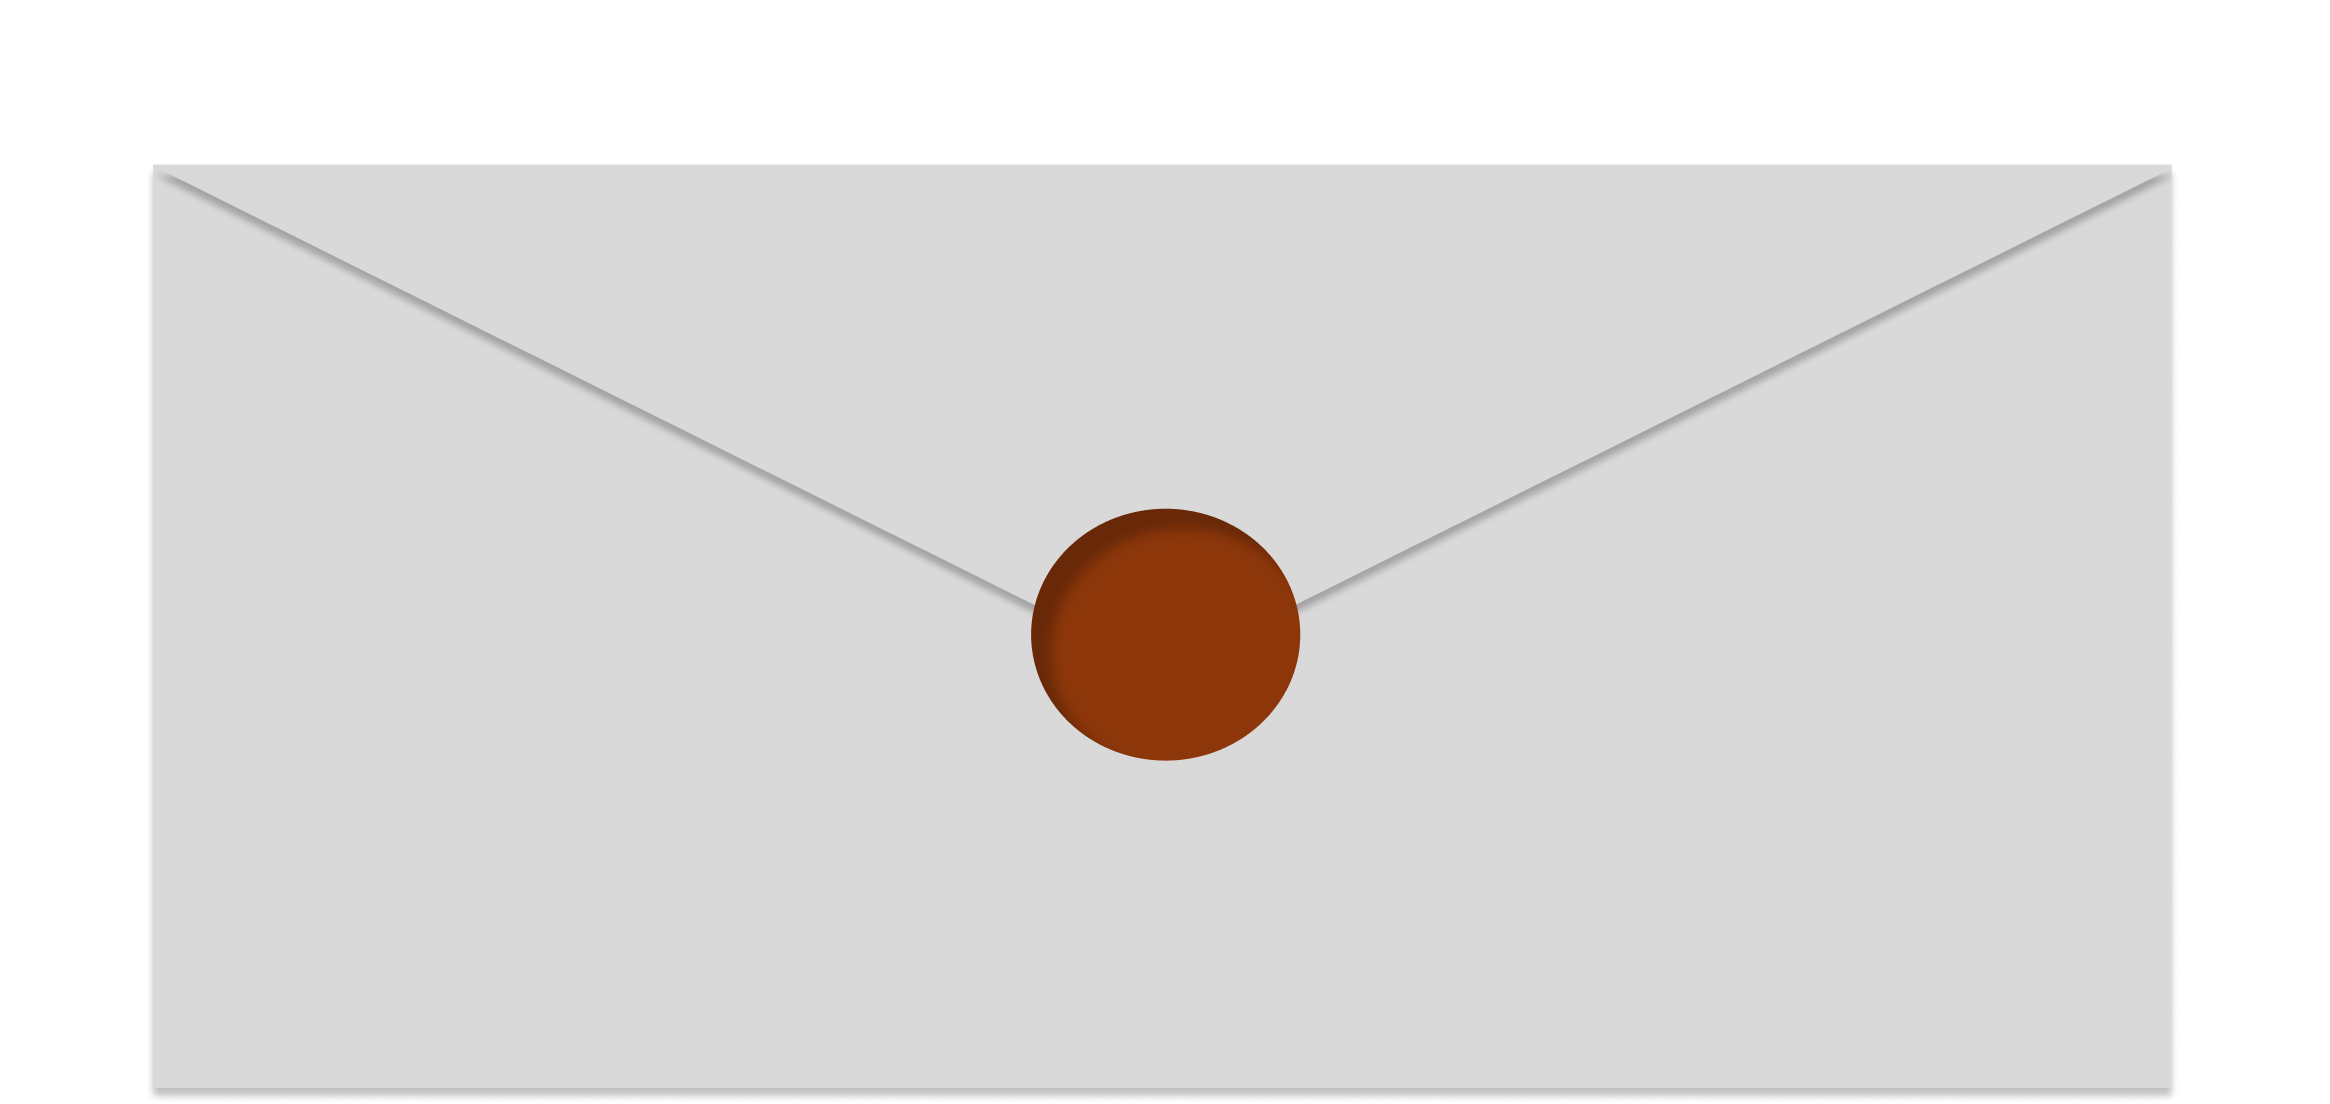
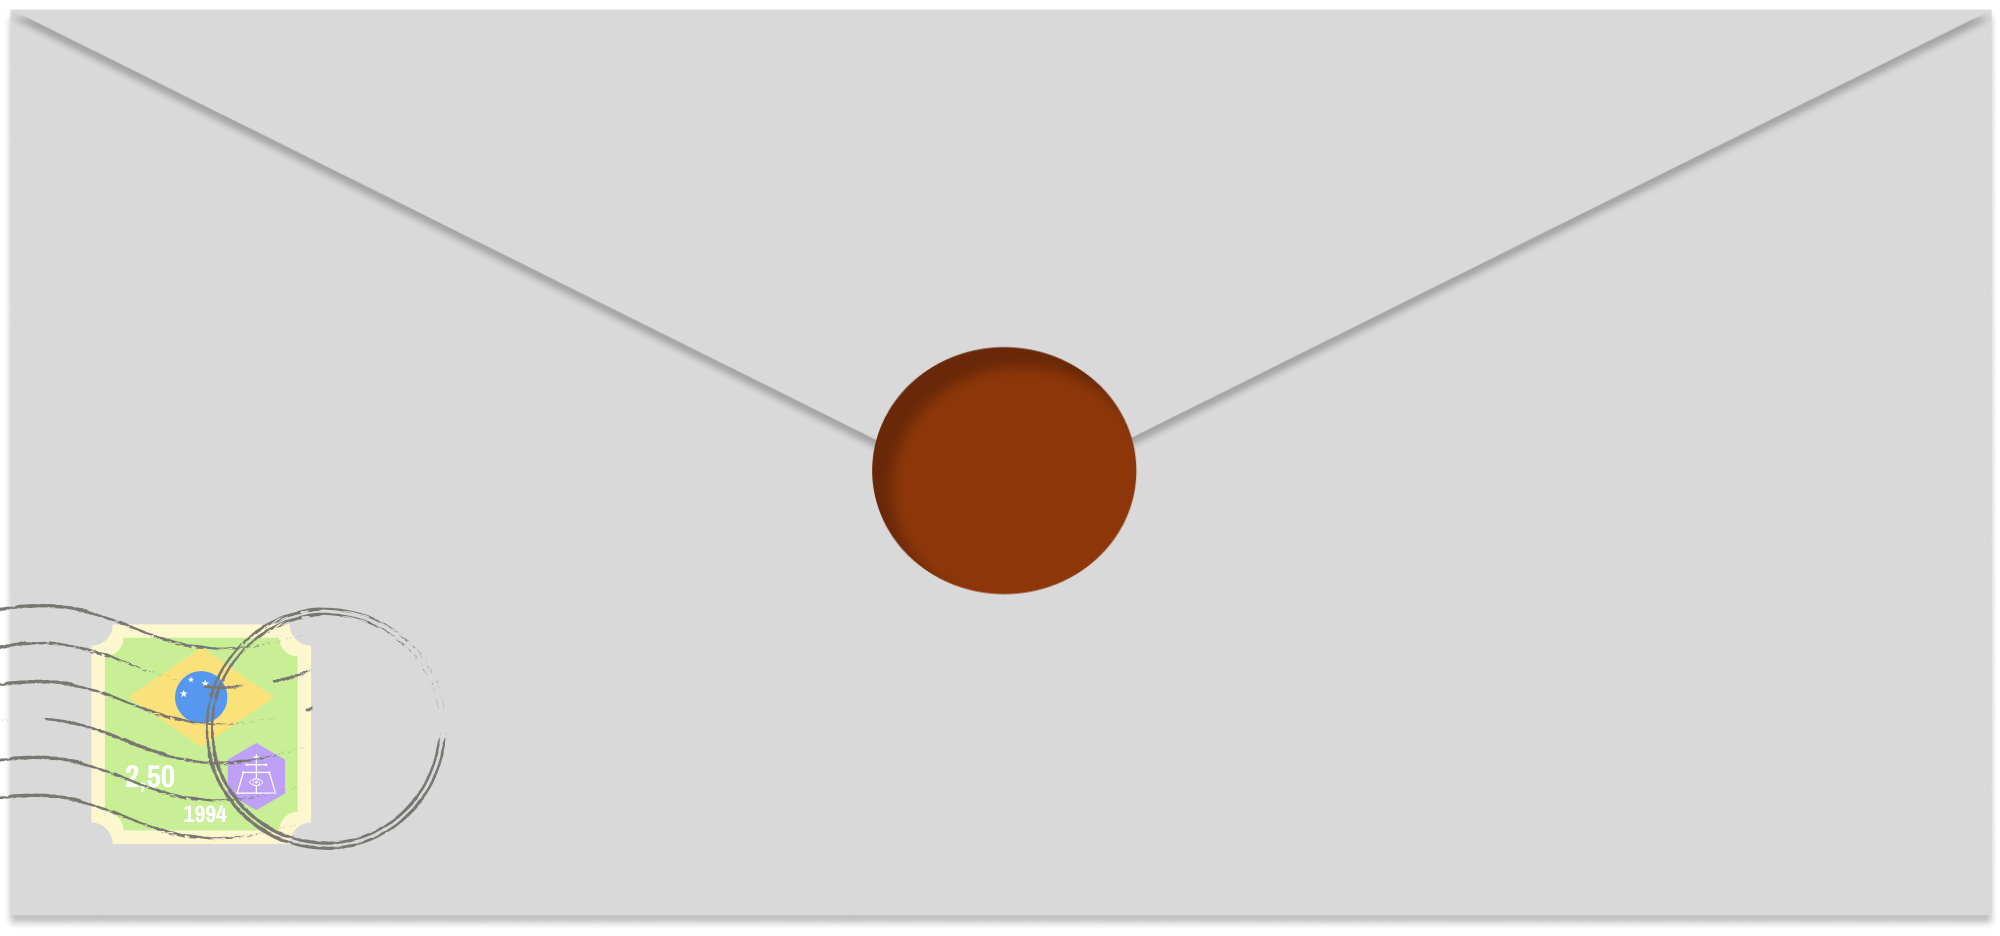
adicionando a ultima imagem que faltava na pagina inicial e configurando um hover nos botoes do index

diff --git a/index.html b/index.html
@@ -32,21 +32,23 @@
         </div>
         <!-- a partir daqui é pra onde eu quero mover os botoes, um para o meu curriculo
          um para as materia e um para os meus outros projetos -->
-        <div class="botoes_materia_curriculo">
-            <div class="botao">
-                <div class="botao_curriculo">
-                    <img src="" alt="imagem curriculo" onclick="">
+         <div class="botoes_materia_curriculo">
+            
+            <div class="botao_curriculo">
+                <div class="img_curriculo">
+                    <img src="fotos/curriculo.png" alt="imagem curriculo" onclick="">
                 </div>
             </div>
-            <div class="botao">
-                <div class="botao_materia">
-                    <img src="" alt="pilha de fotos" onclick="window.location.href='materias.html'">
+            
+            <div class="botao_materias">
+                <div class="img_materias">
+                    <img src="fotos/materias.png" alt="pilha de fotos" onclick="window.location.href='materias.html'">
                 </div>
             </div>
         </div>
-        <div class="botao">
-            <div class="botao_outros">
-                <img src="" alt="carta com selo de cera" onclick="window.location.href='outros.html'">
+        <div class="botao_outros">
+            <div class="img_outros">
+                <img src="fotos/outros.png" alt="carta com selo de cera" onclick="window.location.href='outros.html'">
             </div>
         </div>
     </div>

diff --git a/index.css b/index.css
@@ -53,14 +53,6 @@ button{
     height: auto;
     
 }
-
-.header img {
-    width: 100%;
-    height: auto;
-   
-}
-
-
 .botoes .botao{
     margin-left: 5%;
     margin-top: 3%;
@@ -74,7 +66,7 @@ button{
     
 
 }
-.foto_apresentacao img{
+img{
     width: 100%;
     height: auto;
 }
@@ -120,7 +112,7 @@ button:hover {
 }
 
 p{
-    font-size: clamp(1rem,2vw,1.5rem);
+    font-size: clamp(0,5rem,2vw,2rem);
 }
 h2{
     font-size: clamp(1.5rem,3vw,3rem);
@@ -129,11 +121,6 @@ h2{
 h3{
     font-size: clamp(1rem,2.5vw,2rem);
     margin: 0%;
-}
-.imagem img{
-    width: 100%;
-    height: auto;
-
 }
 .imagem{
     width: 35%;
@@ -156,6 +143,44 @@ h3{
     margin-bottom: 1%;
     margin-left: 5%;
 }
+
+/* a partir daqui as comfigurações para os botoes de curriculo e outros  */
+
+.img_outros{
+    width: 55%;
+    cursor: pointer
+}
+.img_curriculo{
+    width: 70%;
+    height: auto;
+    margin: auto; 
+    cursor: pointer;
+}
+.img_materias{
+    width: 75%;
+    height: auto;
+    margin: auto;
+    cursor: pointer;
+}
+.botoes_materia_curriculo{
+    display: flex;
+    flex-direction: row;
+    justify-content: center;
+    align-items: center;
+    margin-top: 5%;
+    margin-bottom: 5%
+}
+.botao_outros{
+    display: flex;
+    justify-content: center;
+}
+.botao_outros:hover,
+.botao_materias:hover,
+.botao_curriculo:hover{
+    background-color: #3672A3;
+}
+
+
 
 /* a partir daqui so oque é trabalhado na pagina materias  */
 #materias{
